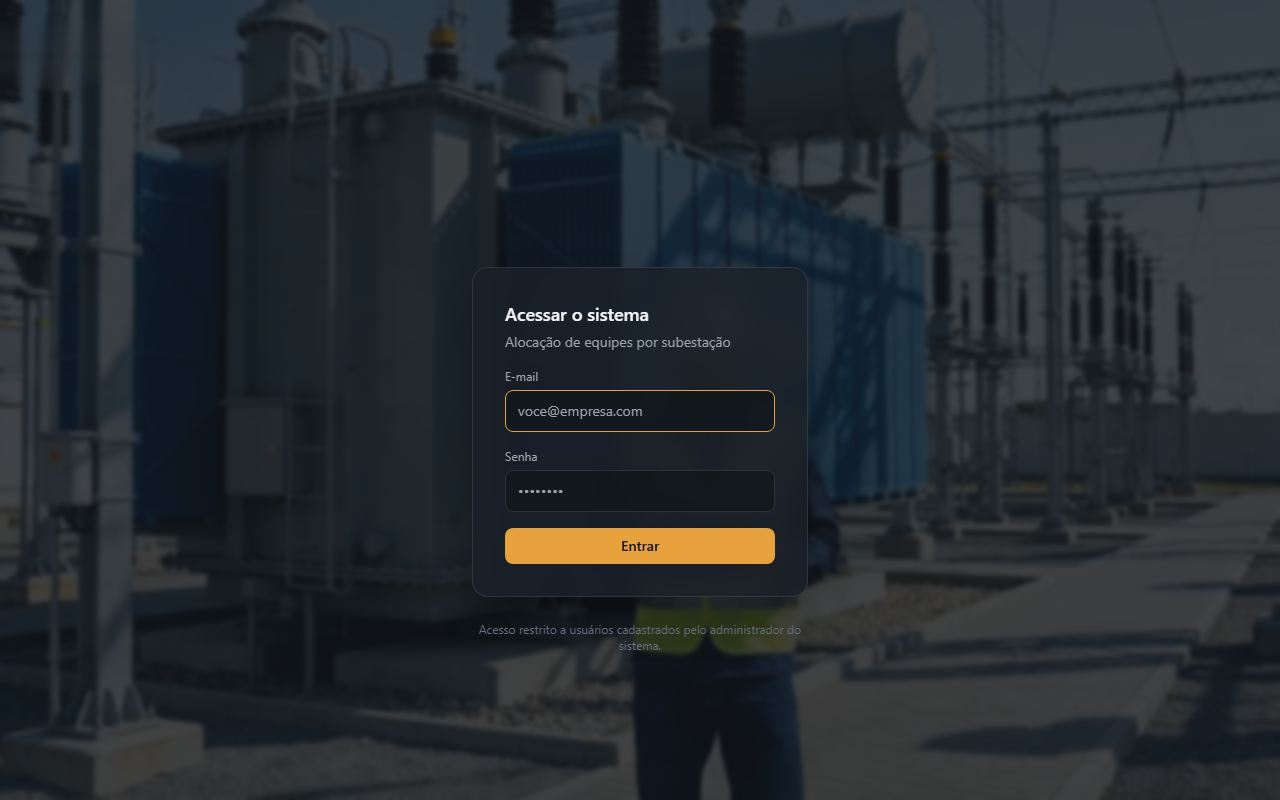
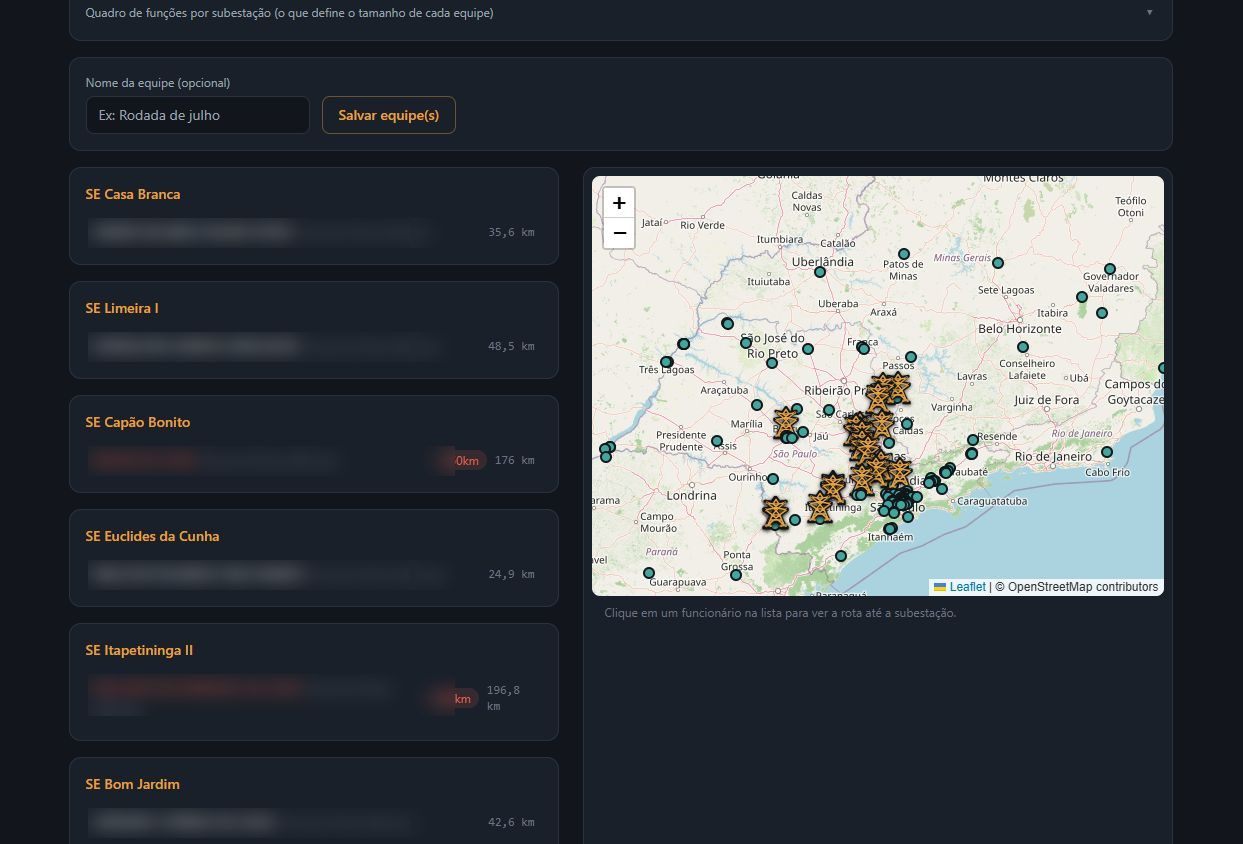
Use real team allocation screenshot and description
Employee names are blurred in the screenshot.

diff --git a/components/projetos.tsx b/components/projetos.tsx
@@ -73,7 +73,7 @@ const PROJETOS: Projeto[] = [
   {
     n: "05",
     nome: "Alocação de equipes",
-    desc: "Distribui as equipes de campo entre as subestações, com acesso por login.",
+    desc: "Monta as equipes de fiscalização por subestação a partir do endereço de cada funcionário. Calcula a distância, marca quem ficaria a mais de 50 km e mostra tudo no mapa, com a rota até a subestação.",
     area: "Campo · Equipes",
     img: "/img/projetos/subestacao.jpg",
     href: "https://subestacao-equipe-app.vercel.app/",
